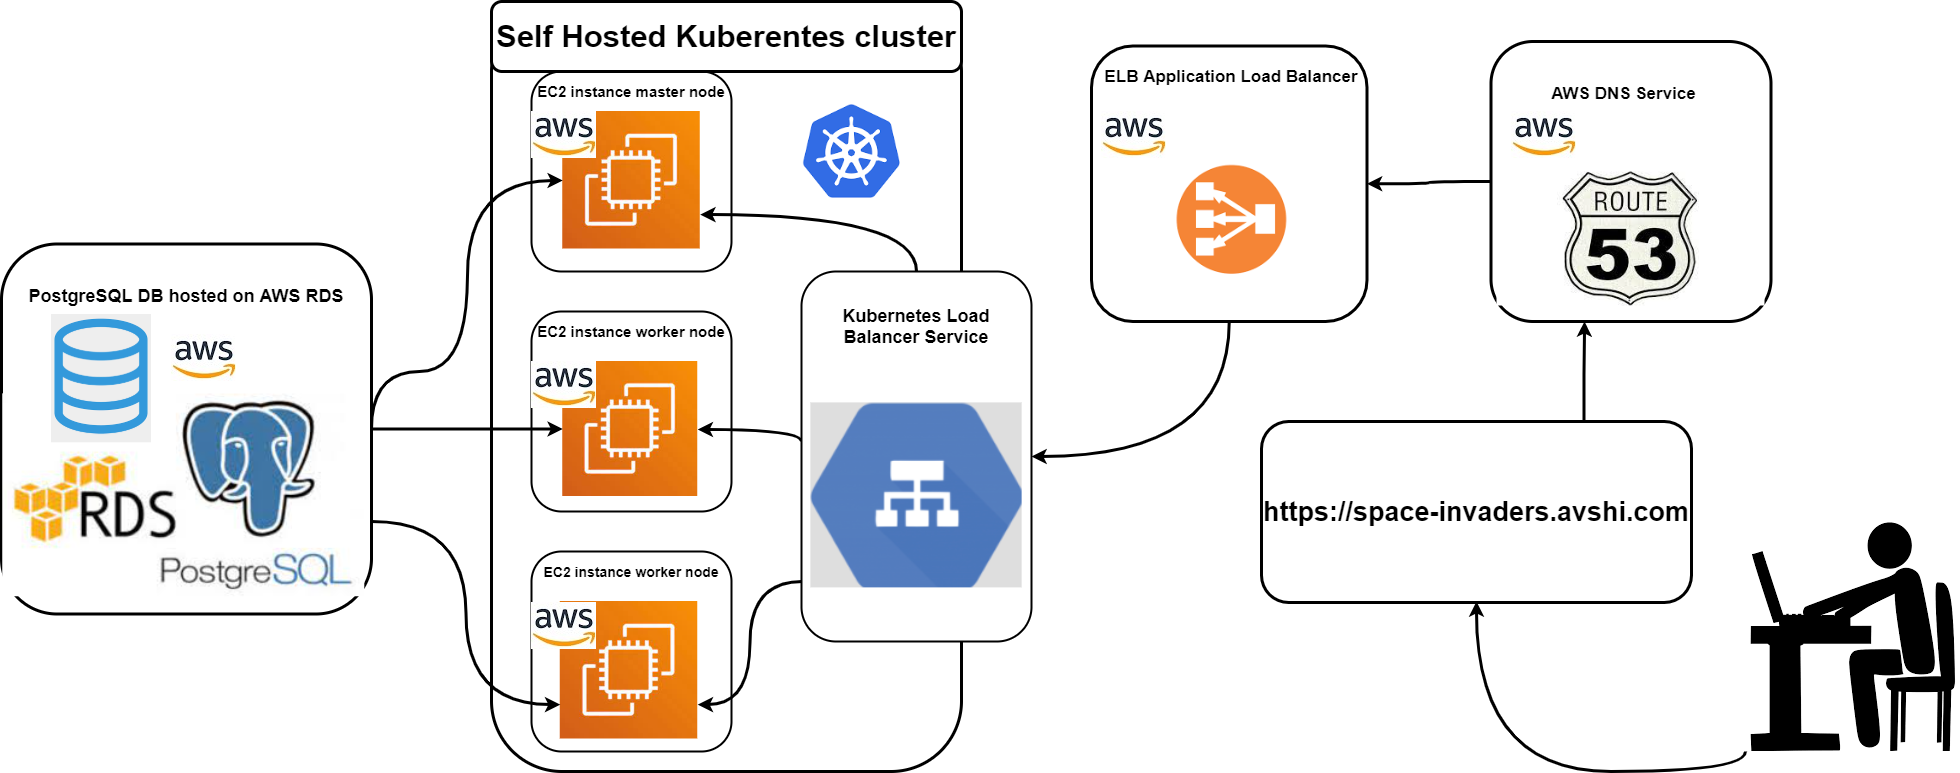
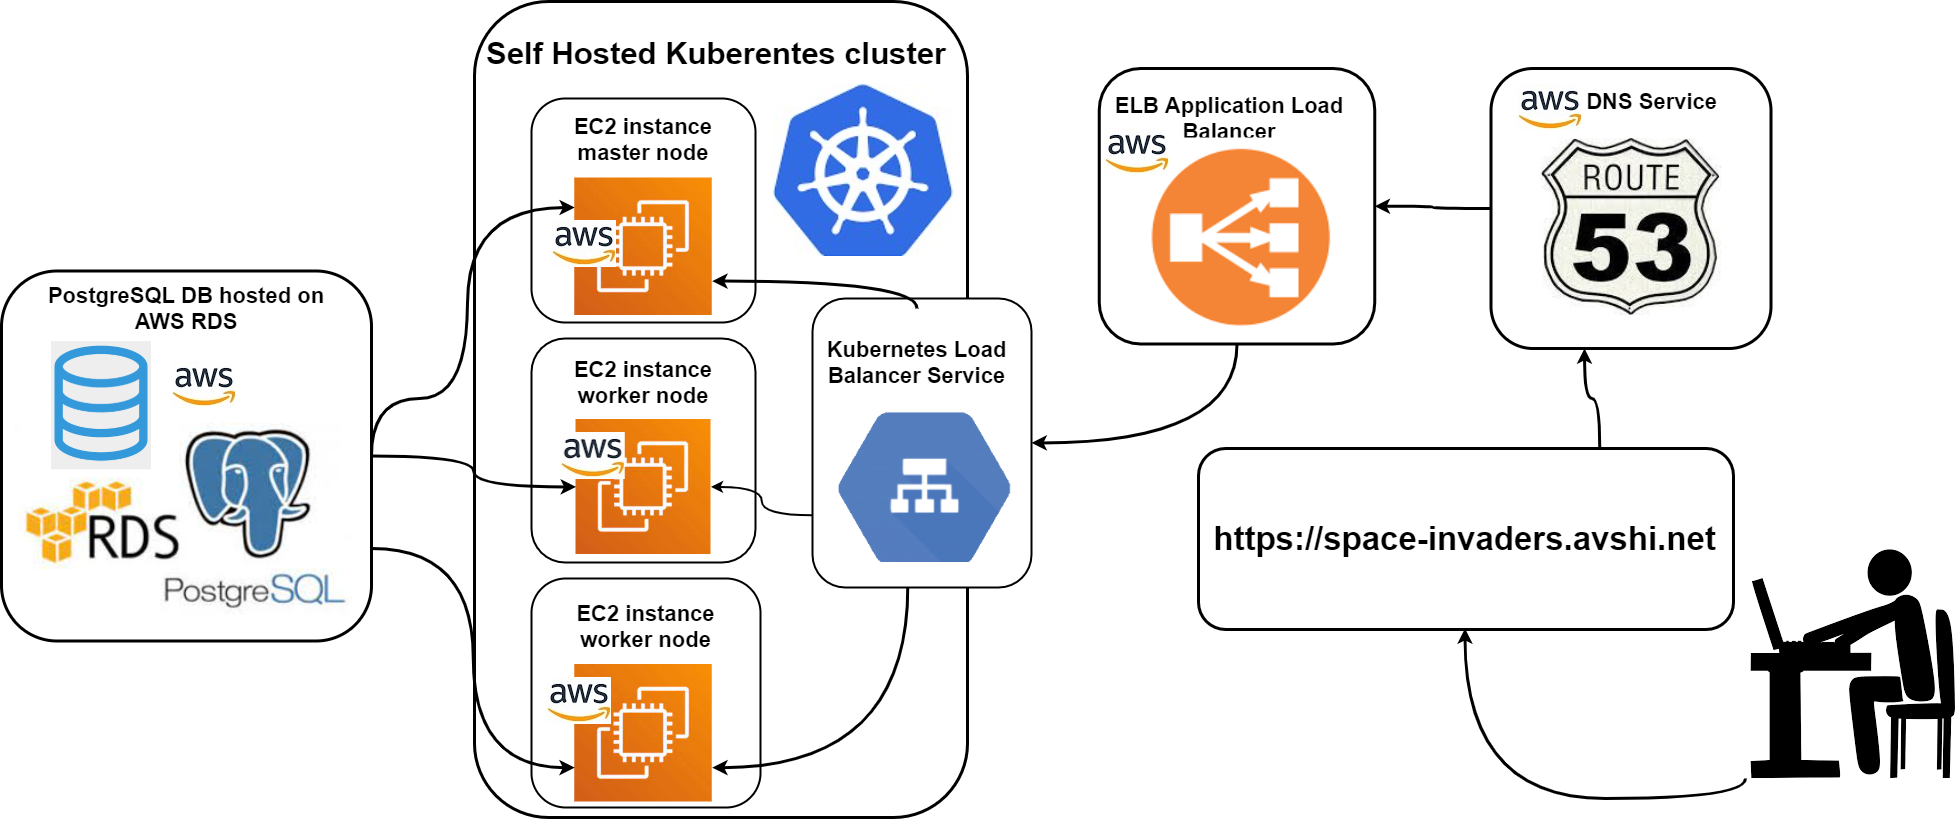
Update infographics, README.md

diff --git a/README.md b/README.md
@@ -1,9 +1,28 @@
-# The Space Invaders Project
+# The Space Invaders Project :space_invader:
 
 [![Front End Tests Actions Status](https://github.com/AvshRLev/gamesproject/workflows/Front%20End%20Tests/badge.svg)](https://github.com/AvshRLev/gamesproject/actions) [![Lint Code Base Action Actions Status](https://github.com/AvshRLev/gamesproject/workflows/Lint%20Code%20Base%20Action/badge.svg)](https://github.com/AvshRLev/gamesproject/actions) [![Website space-invaders.avshi.net](https://img.shields.io/website-up-down-green-red/http/shields.io.svg)](https://space-invaders.avshi.net/)
 
-This is a project created end to end by me for learning and showcasing my abilities.
+This is my final project to Harvard's **CS50’s Web Programming with Python and JavaScript**.
+
+It was created end to end by me for learning and showcasing my abilities.
+
+Space Invaders was the first computer game I had ever played on my first computer with a black and green screen when I was a little boy and I tried to recreate it as I remembered It.
+
+At the moment It has 4 different levels where you are the defending spaceship trying to shoot all the aliens as they are advancing towards the ground.
+
+Time is counted and every alien you destroy gives you 10 points.
+
+![Screenshot](/docs/screenshot.png)
+
+It is written in Python with the Django Web framework with a PostgreSQL DB hosted on AWS's RDS and the front end is augmented with vanilla JavaScript.
+
+I have chosen not to use a framework or library such as React or Angular for this project in order to build a strong foundation of the JavaScript language and a solid ability to control the DOM manually.
+
+I do use the Node.js eco system for testing with Jest and Puppeteer and bundling with webpack.
+
 To view the project online follow [this link](https://space-invaders.avshi.net "Link to my project online")
+
+It is not mobile friendly yet so make sure to visit from a desktop or a laptop.
 
 ## Table of contents
 
@@ -13,37 +32,269 @@ To view the project online follow [this link](https://space-invaders.avshi.net "
 4. [My Git Workflow](#my-git-workflow)
 5. [Best Practices Learned](#best-practices-learned)
 6. [Inspirations](#inspirations)
-7. [Test Report](#test-report)
-8. [Development](#development)
+7. [Testing](#testing)
+8. [General Workflow](#general-workflow)
 
 ## Project Architecture
 
+Overview
+
 ![Project Architecture](/docs/Architecture.png)
+
+Detailed
+
+![Detailed Architecture](/docs/detailed-arch.png)
 
 ## Deployment Architecture
 
 ![Deployment Architecture](/docs/k8saws.png)
 
+### How I Deployed Kubernetes On AWS
+
+I used kubeadm to install kubernetes on 3 EC2 Instances a master and 2 workers. to a more in depth explanation and step by step guide you can follow [This Link](/docs/k8s.md)
+
 ## Deployment Pipeline
 
 ![CI/CD](/docs/ci-cd.png)
 
+### Or even simpler
+
+#### My CI
+
+Push -> Test + Lint -> Pull Request -> Code Review -> Adress Comments -> Merge To Main
+
+#### My CD
+
+Merge To Main -> [Test](.github/workflows/test-run.yml) + [Lint](.github/workflows/super-linter.yml)
+-> [Build and Push Docker Image](.github/workflows/docker.yml) -> [Kubernetes Redeploy](.github/workflows/deliver.yml)
+
+#### Kubernetes Redeploy
+
+In this action I Basically SSH into the EC2 Instance that is configured as my master node and run a script that triggers it to terminate the existing pods with this app and run new ones pulling the freshly pushed Docker Image.
+
 ## My Git Workflow
 
-my git workflow explained here
+When I start working on a feature I start by checking out the main branch
 
-## Best Practices Learned
+```shell
+git checkout main
+```
 
-(take also from the quizes in avshi wacky program) with references to files, or to comments on PRs
+Pull the most recent commit with
 
-## Inspirations
+```shell
+git pull
+```
 
-links to articles, vidoes, style guides, blog posts etc..
+Then create a new branch for it with
 
-## Test Report
+```shell
+git checkout -b new_branch_name
+```
 
-link
+When my code reaches a state i would like to keep it's time to commit
 
-## Development
+```shell
+git commit -am "Concise message to convey what happens in this commit"
+```
 
-instructions of how to run it locally: install python, venv, node, run webpack, or alternativly how to build and run the docker
+The -a flag stages all files that have been modified and deleted, if new files were created they need to be added with
+
+```shell
+git add new_file.ext
+```
+
+Or I simply use my IDE to add them.
+
+The -m flag is for adding the message in the same line without opening an editor.
+
+If I want to commit in a state where things are not working and I will not want this commit in my history I will
+
+```shell
+git commit -am "f"
+```
+
+Letting myself know I will want to use the fixup option later when I rebase this branch interactively.
+
+When it is time to push, On the first push of a new branch
+
+```shell
+git push --set-upstream origin new_branch
+```
+
+On consequent pushes it is enough to just `git push`
+
+Before I push I check for commits with a message of "f" with
+
+```shell
+git log --oneline
+```
+
+In case there are such messages I will count the number of commits to the last commit that is not marked with "f"
+For example if I have 5 commits to the last commit that is not marked with "f" like in this screenshot:
+
+![Git Log](/docs/gitlog.png)
+
+I will use an interactive rebase
+
+```shell
+git rebase -i HEAD~5
+```
+
+Which will open an editor as such:
+
+![Git Rebase Editor](/docs/git-rebase.png)
+
+In which I will change the pick in all the commits marked with "f" to f (stands for fixup)
+
+![Git Rebase Fixup](/docs/git-rebase-fixup.png)
+
+And after I exit the editor all the changes in these commits are kept in the commits that came before them that we picked so if we `$ git log --oneline` again we will get:
+
+![Git Log After Rebase Interactive](/docs/git-log-after.png)
+
+After an interactive rebase pushing has to forced in order to work
+
+```shell
+git push -f
+```
+
+Next when I have a pull request that is ready to be merged into main, before I do I will
+
+```shell
+git fetch
+```
+
+To make sure origin/main is up to date and then from the branch i want to merge
+
+```shell
+git rebase origin/main
+```
+
+In case of merge conflicts I solve them in my IDE and after I am done i know my branch is based off the latest commit to main and when merged my git history will be organized and clear.
+
+## Best Practices Learned :mortar_board:
+
+### Best practices and coding principles learned while working on this project
+
+- #### Naming - names, names, names...
+
+  Naming defines responsability.
+  Once you start defining the responsibilities you tend to refactor your code to smaller cohesive units.
+
+  It allows us to see what a method or a function is supposed to do and when we see something that does not belong there it will be easy to spot and fix.
+
+  The names we give functions,class methods, variables, and also commit messages, branches and pull requests are all very important for our and other's ability to understand and maintain the code that we write.
+
+- #### Refactoring and The Single Responsibility Principle
+
+  After we have named and thus gave the different units of our code their responsibilities we make sure
+  that every unit does one thing only.
+
+  if a unit does more than one thing we break it down into smaller units and smaller until each one does one thing for which it is named.
+
+  The advantage is that it is easier to understand, read, test and change our code this way.
+
+- #### When should you write comments in code? What should it describe?
+
+  Good code explains itself and does not need comments but if for some reason you find yourself with a piece of code that does not explain itself or is too complex, until you get the chance to refactor, Comments in code should explain why you chose to do something and not how you did it (the code itself should explain the how).
+
+  We use comments when function names are not telling the whole story and there's a need to tell the meaning behind it.
+
+- #### Command Query Separation Principle
+
+  If asking a question changes the answer, we're likely to run into problems.
+
+  CQS (Command-Query Separation) is a design principle that states that a method is either a COMMAND that performs an action (with side effects) OR a QUERY that returns data to the caller, but never both.
+
+  Queries avoid mutations. It means that we make a separation between functions that return information and functions that perform some kind of action.
+
+  By enforcing this separation, the code becomes simpler to understand. Is this changing something, or just fetching something? When a method does both (changes the state of the application and retrieves data), it becomes a lot harder to understand it's true purpose.
+
+  And the main advantage is that we can safely and easily use our queries, In addition it makes our code easier to understand and maintain.
+
+  Some of these sentences are quoted from [this website](https://khalilstemmler.com/articles/oop-design-principles/command-query-separation/) which is a great resource.
+
+  [Also you can see this discussion in one of this repo's pull requests](https://github.com/AvshRLev/gamesproject/pull/4#discussion_r606762767)
+
+- #### Pure Functions
+
+  A pure function is a function that works on a given parameter and gives out an Output but does not change the original parameter.
+
+  The advantage of it is that you don’t need to worry about side effects when you use pure functions because they have no side effects.
+
+  Its important to note that pure function only manipulates the data it got as input to return an answer and does not get any data from hidden dependencies like a database or other objects for example.
+
+  The biggest advantage of pure functions is that they are deterministic - you'll always get the same result for the same inputs and thats very easy to reason about.
+
+- #### Declarative vs Imperative programming
+
+  In declarative programming you declare what you are going to do (for example: .map() and .filter())
+
+  In Imperative programming you simply do the things (for example: for loops )
+
+  Simply put -> Declarative is the what, Imperative is the how
+
+- #### When should a function be a class method?
+
+  If a function has dependencies inside the class (i.e that it needs something specific from inside the class or that it works on specific things in that class) than it should be a class method.
+
+- #### Why is code formatting and styling important?
+
+  When you work in a team and have a huge codebase its much easier when all the code looks alike.
+
+  Less cognitive pressure on your brain.
+
+- #### Refactoring heavily nested if else statements
+
+  Organizing the ifs one under the other in the order in which you want the conditions to be evaluated so if the first if is true all the others won’t need to be evaluated and use early returns to break out of them.
+
+- #### Why you should not change parameters that are passed into a function?
+
+  They are not the actual parameters but copies of them and if you pass the reference you might have side effects you did not expect.
+
+- #### Why functions should never return null
+
+  Returning null leads to the spread of null values and the need for verifications for null. Instead, try to use objects with default properties, or even throw errors.
+
+  An interesting article about why you should _[Think Twice Before Returning null](https://odetocode.com/blogs/scott/archive/2019/08/07/think-twice-before-returning-null.aspx)_.
+
+  Learn _[Everything about null in JavaScript](https://dmitripavlutin.com/javascript-null/)_ in this great article.
+
+- #### The way I introduce new tech into my project
+
+  - Start with a working "Hello World!" basic implementation of new tech
+  - Implement the most basic "Hello World!" tutorial of new tech inside the project step by step (even copy line by line from the working example)
+  - Implement the smallest most simple function inside the project with new tech
+  - Grow from there
+
+- #### The debugging state of mind
+
+  The debugging state of mind entails having a cup of tea (Or a cool drink in the summer), your favorite relaxing concentration music on the earphones, deep breaths and some stretching so that you are relaxed and able to think clearly about things.
+
+  Solving problems doesn’t happen in a stressed mind and body.
+
+## Testing
+
+The front end tests in this project are behaviour driven tests geared towards replacing the manual checks i would run after every change in the code base.
+
+This is done using Jest and Puppeteer.
+
+First of all, I make sure django is running and serving my app on localhost.
+
+Then I open a headless chrome with puppeteer and programtically simulate the steps I would take to run each test or check each behaviour of the app manually.
+
+I use Jest to assert the behaviour was indeed as expected.
+
+Below are some screenshots from the test report i get after every time the testing action runs in GitHub
+
+![Test Results](/docs/results1.png) ![Test Results](/docs/results2.png) ![Test Results](/docs/results3.png)
+
+## General Workflow
+
+I have had the joy and luck to find an amazing mentor who is also an old time friend... He has been training me and teaching me throughout this project.
+We have been working in the Kanban method with a [trello board](https://trello.com/b/OX4xBjob/space-invadors)
+
+![Trello](/docs/trello.png)
+
+My mentor has been adding tasks to the backlog and I have been moving them between the different columns until they found their way to the Done column and so I could take a new one from the backlog.

diff --git a/docs/k8s.md b/docs/k8s.md
@@ -1,0 +1,62 @@
+# How I deployed a Kubernetes cluster on AWS
+
+## I have used [This Video](https://www.youtube.com/watch?v=vpEDUmt_WKA) as a guide and followed along with thse steps
+
+1. Launch 3 EC2 instances with latest Ubuntu image
+2. Install Docker and Kubernetes on all of them
+
+   [Docker Instalation Ubuntu](https://docs.docker.com/engine/install/ubuntu/)
+
+   [Kubernetes Instalation using kubeadm](https://kubernetes.io/docs/setup/production-environment/tools/kubeadm/install-kubeadm/)
+
+3. On each server, enable the use of iptables
+
+   ```shell
+   echo "net.bridge.bridge-nf-call-iptables=1" | sudo tee -a /etc/sysctl.conf
+   ```
+
+   and then
+
+   ```shell
+   sudo sysctl -p
+   ```
+
+4. On the Master server only, initialize the cluster
+
+   ```shell
+   sudo kubeadm init --pod-network-cidr=10.244.0.0/16
+   ```
+
+   After this command finishes, copy kubeadm join provided
+
+5. On the Master server only, set up the kubernetes configuration file for general usage
+
+   ```shell
+   mkdir -p $HOME/.kube
+   ```
+
+   ```shell
+   sudo cp -i /etc/kubernetes/admin.conf $HOME/.kube/config
+   ```
+
+   ```shell
+   sudo chown $(id -u):$(id -g) $HOME/.kube/config
+   ```
+
+6. On the Master server only, apply a common networking plugin. In this case, Flannel.
+
+   ```shell
+   kubectl apply -f [kubeflannel](https://raw.githubusercontent.com/coreos/flannel/master/Documentation/kube-flannel.yml)
+   ```
+
+7. On the Worker servers only, join them to the cluster using the command you copied earlier.
+
+   ```shell
+   kubeadm join 172.31.37.80:6443 --token ... --discovery-token-ca-cert-hash ...
+   ```
+
+8. And eventually apply the deployment files I have imported from my machine
+
+   ```shell
+   kubectl apply -f space-deployment.yml space-ingress.yml
+   ```
